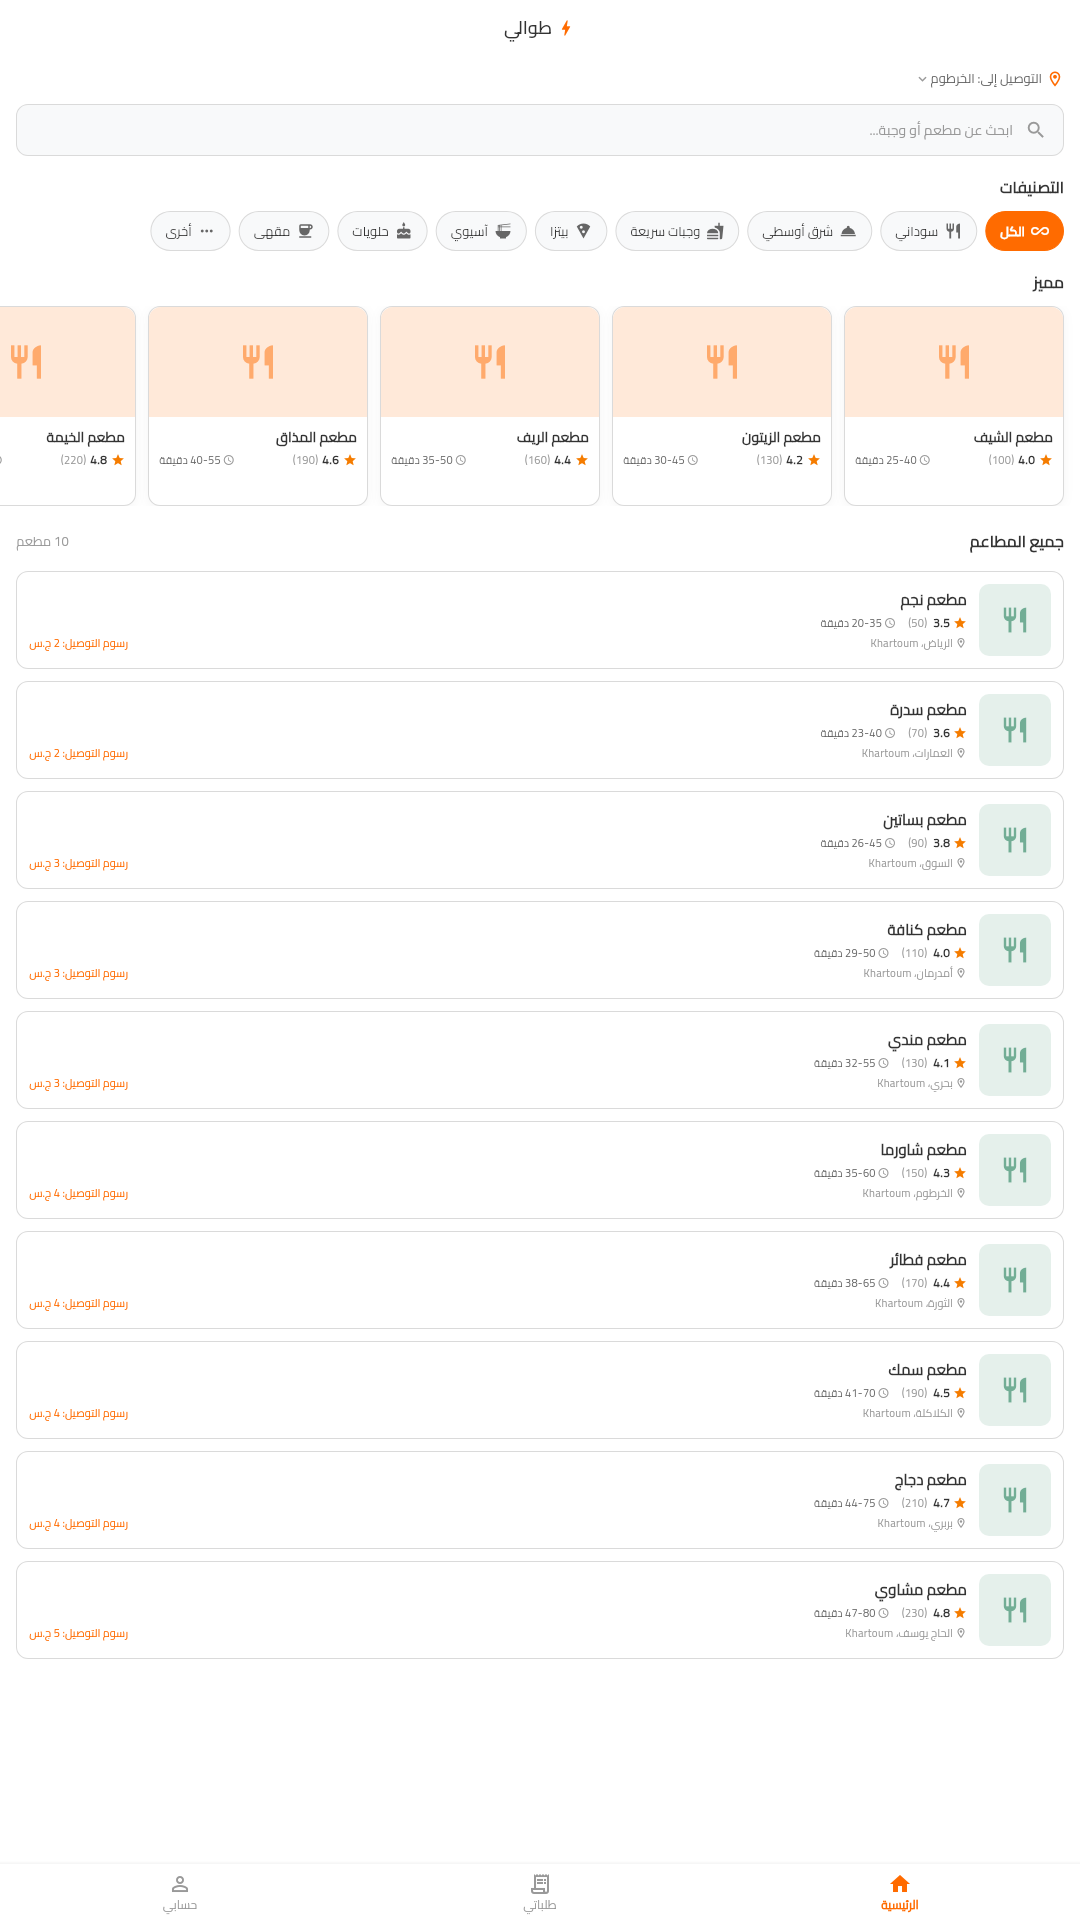
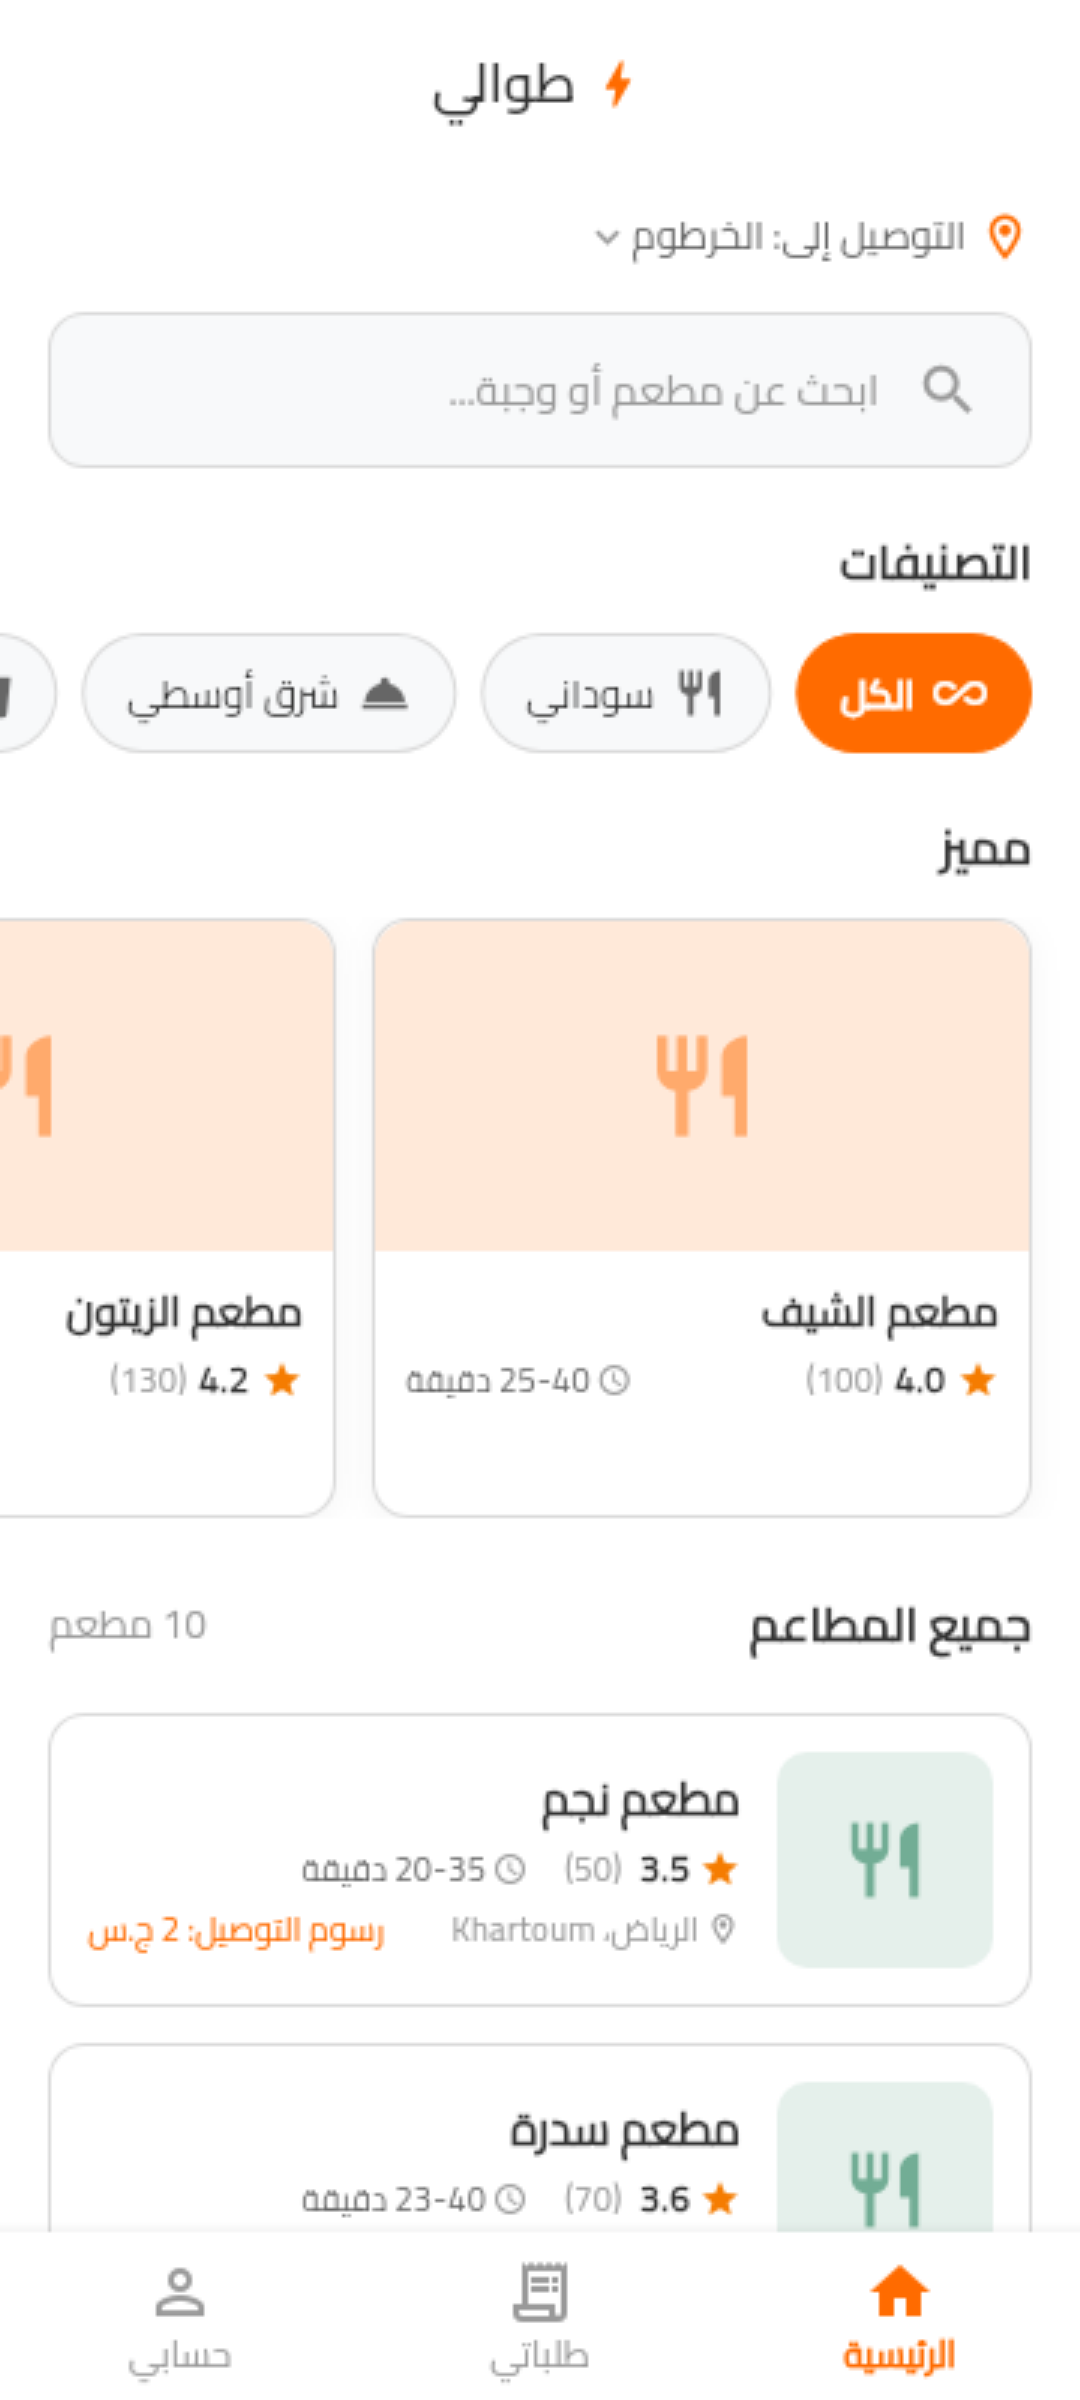
fix: Screenshots mit korrekten Telefonmassen neu aufgenommen
Die erste Fassung setzte 1080x1920 als LOGISCHE Pixel - die App hielt sich
damit fuer ein sehr grosses Geraet und rendert winzig mit viel Leerraum.
Jetzt 360x800 logisch, beim Aufnehmen per clip.scale 3 auf 1080x2400
hochskaliert.

diff --git a/play_store/screenshots/HERKUNFT.md b/play_store/screenshots/HERKUNFT.md
@@ -27,3 +27,17 @@ Die Aufnahmen zeigen die **Demo-Daten** aus `RestaurantProvider._initDemoData()`
 keine Fotos. Solange die App keine echten Daten und keinen Bestell-Backend hat,
 sind diese Bilder fuer eine Veroeffentlichung nicht geeignet -- nicht weil sie
 unecht waeren, sondern weil die App dahinter noch nichts tut.
+
+## Masse (korrigiert am 22.08.2026)
+
+Aufgenommen mit **360x800 logischen Pixeln** (echte Telefonmasse) und beim
+Aufnehmen per `clip.scale = 3` auf **1080x2400 Bildpunkte** hochskaliert.
+
+Der naheliegende Weg -- `deviceScaleFactor: 3` in
+`Emulation.setDeviceMetricsOverride` -- funktioniert **nicht**: Flutter-Web
+uebernimmt den Wert nicht und rendert unskaliert in die linke obere Ecke,
+sodass die App nur ein Neuntel des Bildes einnimmt. Werkzeug: `~/shoot2.py`.
+
+Zweite Falle: Flutter registriert einen **Service Worker**. Wird auf demselben
+Port eine andere App ausgeliefert, zeigt der Browser weiter die alte aus dem
+Cache. Pro App einen eigenen Port und ein frisches Browserprofil verwenden.
